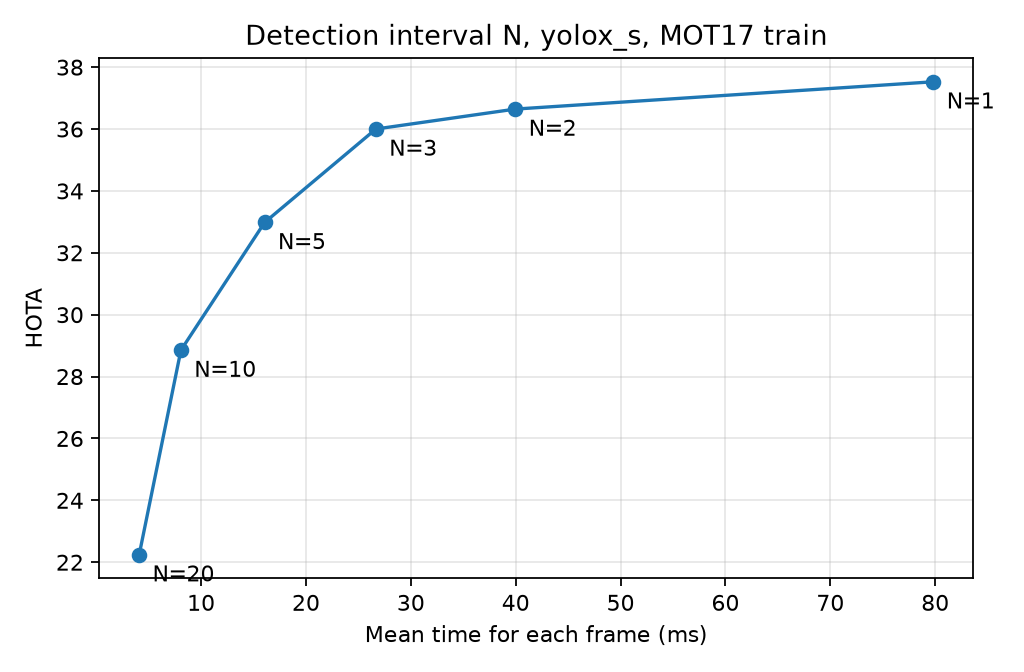
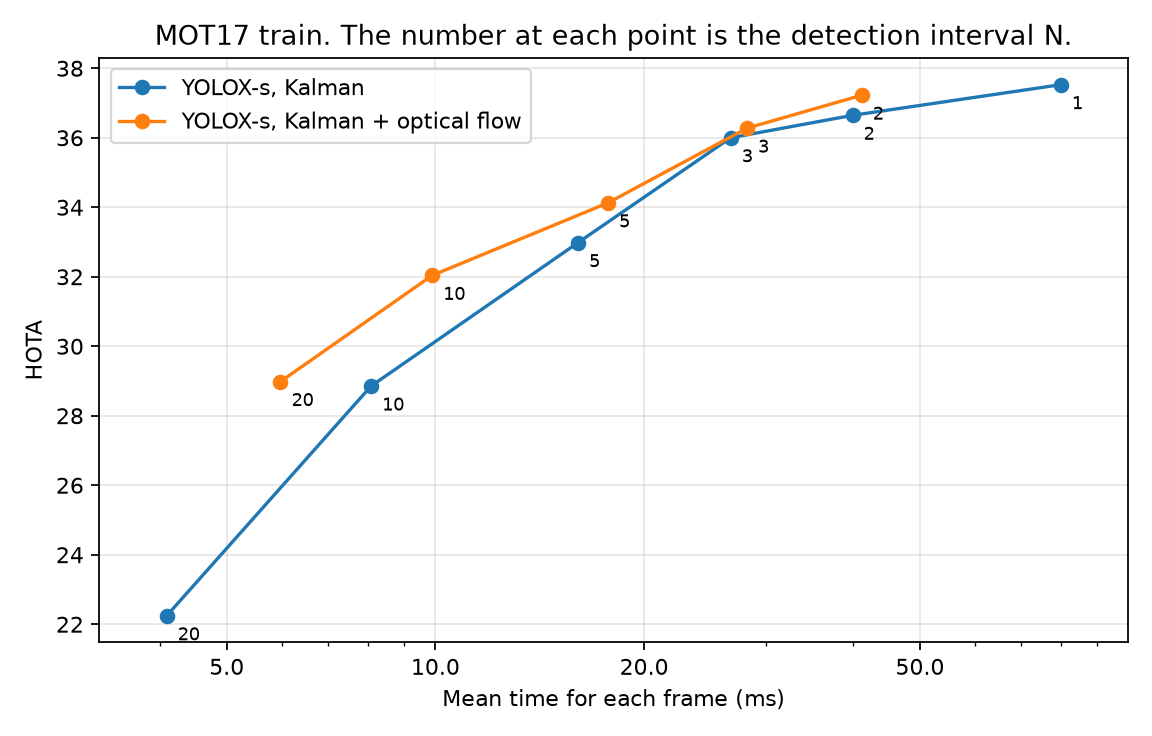
Add results for optical flow and for model size against interval

diff --git a/README.md b/README.md
@@ -67,8 +67,6 @@ ONNX Runtime on the CPU of an Apple M3 Pro, one run.
 | 10 | 10.03 | 8.08 | 81.48 | 28.85 | 42.03 | 20.02 | 20.18 | 31.39 | 324 |
 | 20 | 5.04 | 4.10 | 79.49 | 22.24 | 37.13 | 13.57 | 10.62 | 22.22 | 234 |
 
-![HOTA against mean frame time](assets/interval_yolox_s.png)
-
 What the data shows:
 
 - At N = 3, the mean frame time decreases by 67% and HOTA decreases by 1.53 points.
@@ -80,6 +78,49 @@ What the data shows:
 
 The time is the stored detector latency plus the tracker time. It does not include the
 image decode.
+
+### Optical flow between detector runs
+
+Between detector runs, sparse Lucas-Kanade flow measures the motion of each box, and the
+Kalman filter uses that as a measurement. A forward-backward check rejects unreliable
+points. Same model and data as above.
+
+| N | Mean (ms/frame), Kalman | Mean (ms/frame), flow | HOTA, Kalman | HOTA, flow | IDSW, Kalman | IDSW, flow |
+|---:|---:|---:|---:|---:|---:|---:|
+| 2 | 39.97 | 41.21 | 36.64 | 37.22 | 301 | 206 |
+| 3 | 26.66 | 28.14 | 36.00 | 36.28 | 297 | 199 |
+| 5 | 16.06 | 17.74 | 32.98 | 34.13 | 326 | 189 |
+| 10 | 8.08 | 9.89 | 28.85 | 32.04 | 324 | 164 |
+| 20 | 4.10 | 5.98 | 22.24 | 28.98 | 234 | 119 |
+
+![HOTA against mean frame time, with and without optical flow](assets/interval_yolox_s.png)
+
+- The flow adds 1.2 to 1.9 ms to the mean frame time.
+- The gain increases with N: 0.28 HOTA at N = 3, 3.19 at N = 10, and 6.74 at N = 20.
+- The flow decreases the ID switches by 32% to 49%.
+- With the flow, N = 10 (9.89 ms, 32.04 HOTA) is near N = 5 without it (16.06 ms, 32.98 HOTA).
+- Known limit: when an object is mostly hidden, the points follow the object in front.
+
+### Model size against interval
+
+Kalman prediction only. Each row is one point near a frame time budget.
+
+| Configuration | Mean (ms/frame) | HOTA |
+|---|---:|---:|
+| YOLOX-s, N = 1 | 79.83 | 37.53 |
+| YOLOX-m, N = 3 | 65.69 | 37.99 |
+| YOLOX-s, N = 2 | 39.97 | 36.64 |
+| YOLOX-m, N = 5 | 39.48 | 35.58 |
+| YOLOX-tiny, N = 1 | 23.09 | 31.95 |
+| YOLOX-s, N = 5 | 16.06 | 32.98 |
+| YOLOX-nano, N = 1 | 8.42 | 28.47 |
+| YOLOX-s, N = 10 | 8.08 | 28.85 |
+
+![HOTA against mean frame time for four models](assets/interval_models.png)
+
+A larger model with a longer interval can be better than a smaller model on each frame.
+YOLOX-m at N = 3 is faster than YOLOX-s at N = 1 and has a higher score. Thus the model
+size and the interval must be selected together.
 
 ## Detector backends
 
@@ -125,6 +166,7 @@ Run the interval experiment (this needs `models/yolox_s.onnx`):
 ```sh
 .venv/bin/python bench/cache_detections.py models/yolox_s.onnx
 .venv/bin/python -m bench.interval yolox_s
+.venv/bin/python -m bench.interval yolox_s --flow
 ```
 
 ## Prior work
